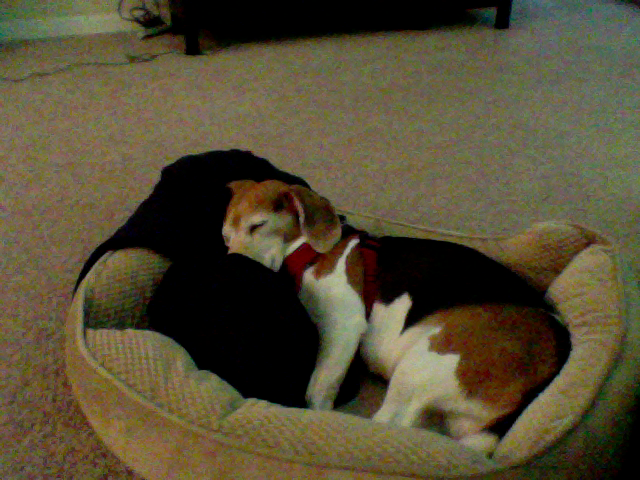
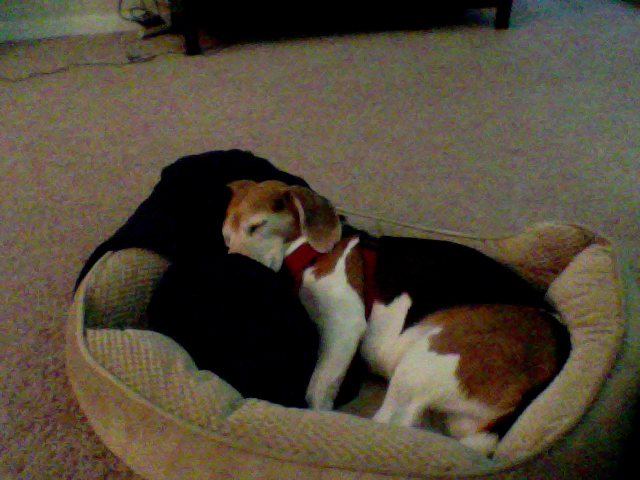
update at Month05Day12Time11:05

Changed region(s): [[0.0, 0.0, 1.0, 1.0]]

diff --git a/index.html b/index.html
@@ -39,8 +39,8 @@
       <!-- Example row of columns -->
       <div class="row">
         <div class="col-md-4">
-	<p>This picture was updated at Month05Day12Time11:04</p>
-		<img src="2_pic.png" />
+	<p>This picture was updated at Month05Day12Time11:05</p>
+		<img src="3_pic.png" />
         </div>
       </div>
 
